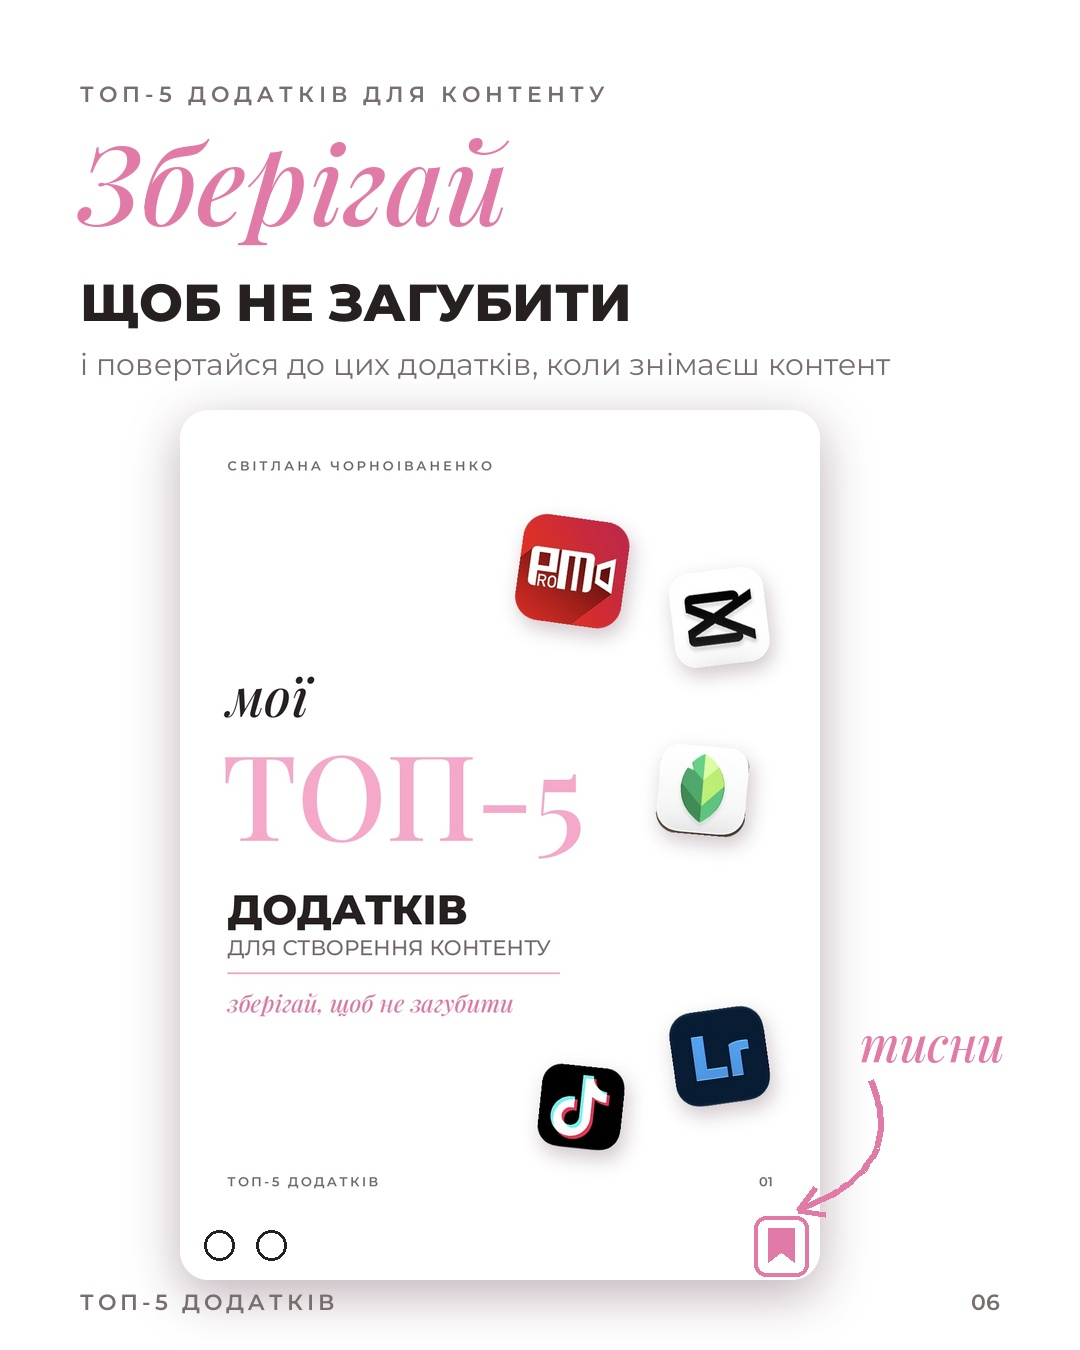
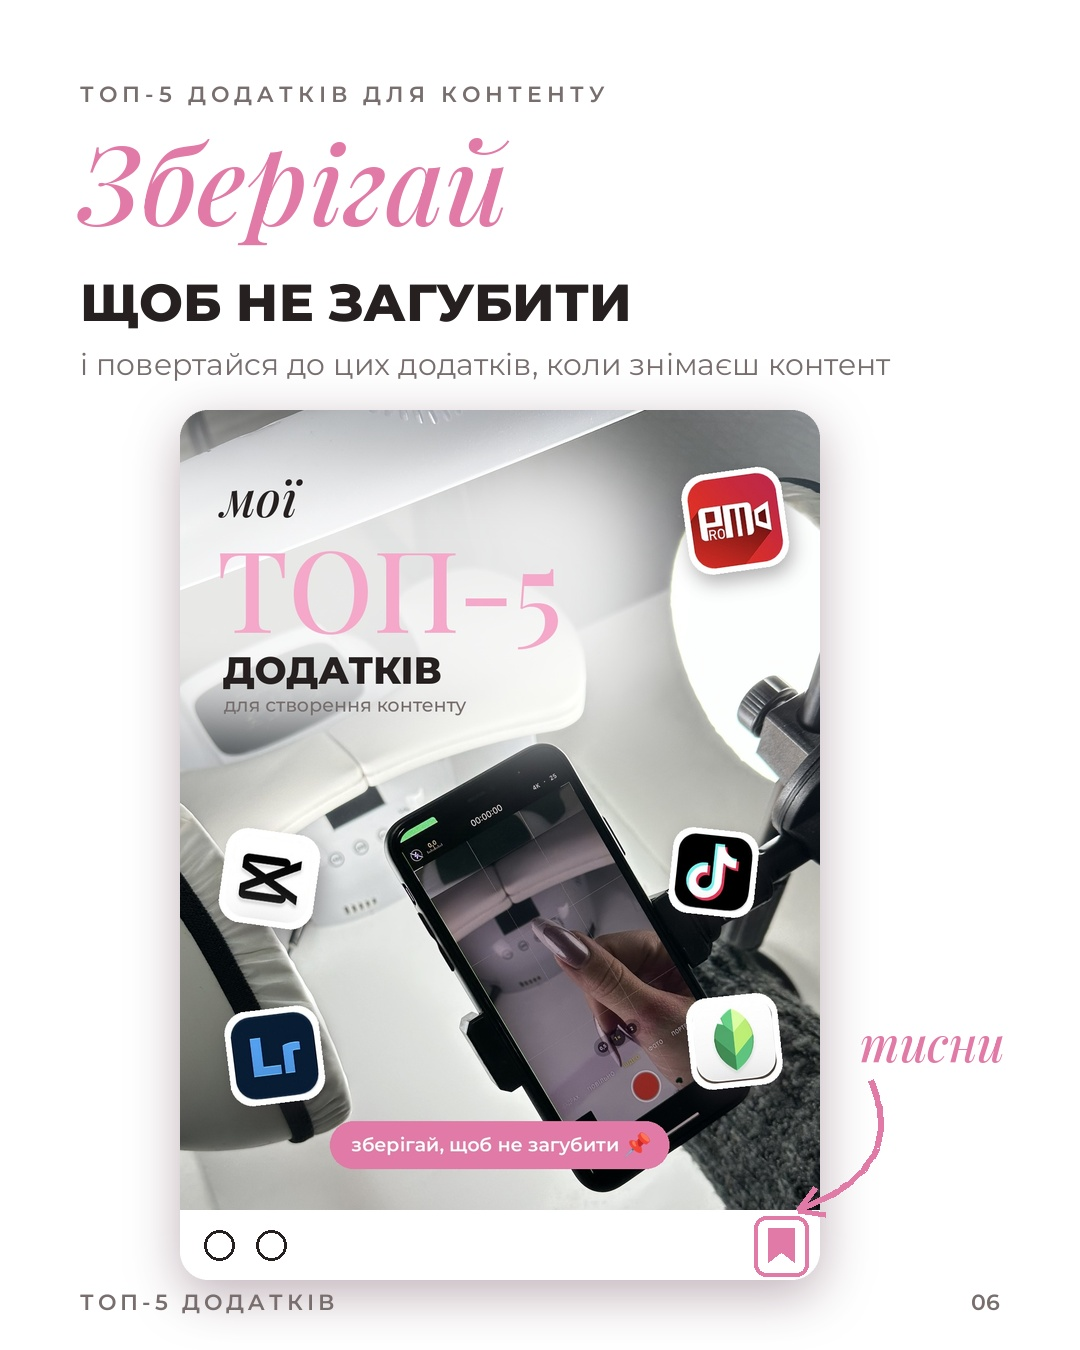
Apps carousel: photo cover with app stickers; drop standalone reel cover
Claude-Session: https://claude.ai/code/session_0191xVL2hi5vHUvM1ix6pauC

Changed region(s): [[0.1528, 0.28, 0.7639, 0.9022]]

diff --git a/karusel_dodatky/build_cover.py b/karusel_dodatky/build_cover.py
@@ -1,0 +1,23 @@
+import sys
+S,R=sys.argv[1:3]
+src=open(f'{S}/vl/apps.py').read(); exec(src.split('\n# ---------- 1 cover ----------\n')[0])
+ph=Image.open(f'{U}/9a3cd4a8-image.jpg').convert('RGB'); s=W/ph.width; ph=ph.resize((W,round(ph.height*s)),Image.LANCZOS)
+oy=int((ph.height-H)*0.12); c=ph.crop((0,oy,W,oy+H))
+g=Image.new('L',(W,H),0); ImageDraw.Draw(g).rounded_rectangle((-120,40,820,560),radius=200,fill=225); g=g.filter(ImageFilter.GaussianBlur(70))
+c=Image.composite(Image.new('RGB',(W,H),(255,255,255)),c,g); d=ImageDraw.Draw(c)
+d.text((70,90),'мої',font=P(84),fill=DARK)
+d.text((62,170),'ТОП-5',font=F('PlayfairDisplay-wght.ttf',190,500),fill=LPINK)
+d.text((72,400),'ДОДАТКІВ',font=M(64,800),fill=DARK)
+d.text((74,478),'для створення контенту',font=M(32,500),fill=GREY)
+def st(c,ic,x,y,s,a):
+    im=ic.resize((s,s),Image.LANCZOS); b=Image.new('RGBA',(s+20,s+20),(0,0,0,0)); m=Image.new('L',(s+20,s+20),0)
+    ImageDraw.Draw(m).rounded_rectangle((0,0,s+19,s+19),radius=int(s*0.27),fill=255); b.paste(Image.new('RGBA',(s+20,s+20),(255,255,255,255)),(0,0),m); b.alpha_composite(im,(10,10))
+    b=b.rotate(a,expand=True,resample=Image.BICUBIC)
+    sh=Image.new('L',(W,H),0); sh.paste(b.split()[3],(x+6,y+14)); sh=sh.filter(ImageFilter.GaussianBlur(16)).point(lambda v:int(v*0.4))
+    c=Image.composite(Image.new('RGB',(W,H),(60,50,55)),c,sh); c.paste(b,(x,y),b); return c
+for nm,x,y,s,a in [('ProMovie',840,90,150,8),('CapCut',60,700,140,-8),('Snapseed',850,980,135,6),('Lightroom',70,1000,140,7),('TikTok',820,700,125,-6)]:
+    c=st(c,ICONS[nm],x,y,s,a)
+d=ImageDraw.Draw(c); t='зберігай, щоб не загубити'; f=M(32,600); tw=d.textlength(t,font=f)
+px,py=(W-tw-120)//2,1200; d.rounded_rectangle((px,py,px+tw+120,py+80),radius=40,fill=PINK); d.text((px+36,py+20),t,font=f,fill=WHITE)
+e=emoji('📌',42); c.paste(e,(int(px+46+tw),py+19),e)
+c.save(f'{OUT}/01.jpg',quality=95)
